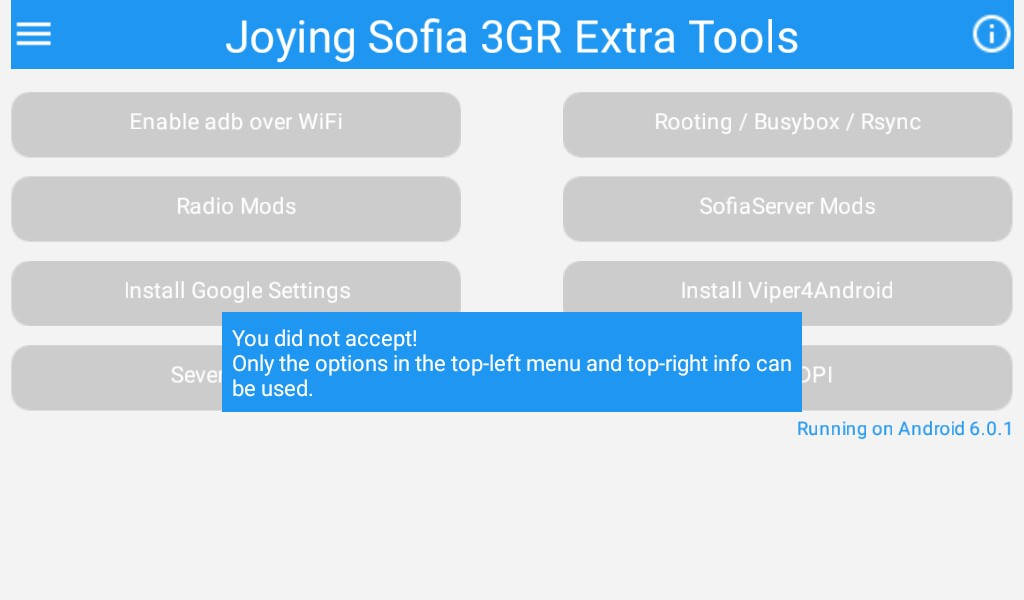
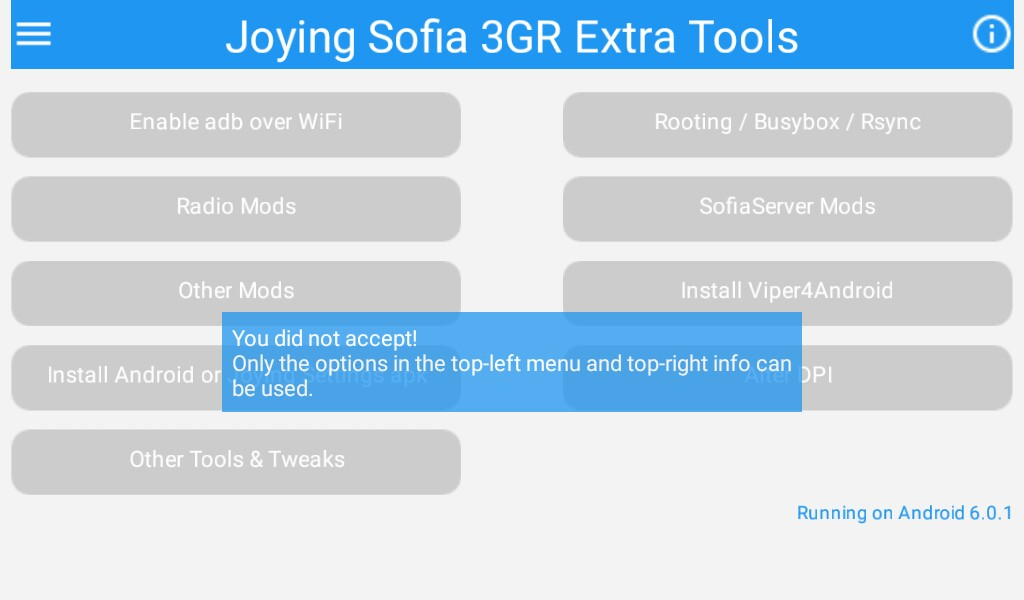
Add version 1.1 stuff

Changed region(s): [[0.0, 0.45, 0.7812, 0.84], [0.7812, 0.69, 1.0, 0.75], [0.7812, 0.84, 1.0, 0.87]]

diff --git a/manual.html b/manual.html
@@ -84,6 +84,7 @@
     <H2>The options from the main screen.</H2>
     <p>Again: If you do accept you will see:<br><a href="images/mainscreen.jpg"><img src="images/thumb-mainscreen.jpg"></a></p>
     <p>Note that some options are buttons and others are "list pickers" (drop-down options).</p>
+    <p>Note also that the buttons/listpickers that allow you to install mods, also contain the original Joying apk. In case it doesn't work for you, you can always install/restore the Joying original.</p>
     <ul>
     <li><strong>Enable adb over WiFi</strong> or <strong>Disable adb over WiFi</strong>: Depending on the current setting of the unit.<br>adb over WiFi is very handy, as you can access your unit from a distance. At the same time it is a security risk. When enabled, everyone able to "join" your WiFi network can within a minute access your unit on root level without even having to specify a password.<br> A good measure is always a strong password on your WiFi network (or your hot spot). This makes it off course much harder to hack. But if you don't need it, switch it off.</li>
     <li><strong>Rooting / Busybox/ Rsync</strong></li>
@@ -93,16 +94,19 @@
         <li><strong>Update busybox:</strong> The busybox version installed on the Joying units is old and buggy. This will install a better one. It is strongly advised to install thisversion and it is a requirement for Viper4Android!</li>
         <li><strong>Install rsync:</strong> rsync can be used for all kind of things. See for yourself.</li>
     </ul>
-    <li><strong>Radio Mods</strong>: This listpicker gives a couple of options to install different colored Radios aps.</li>
-    <li><strong>SofiaServer Mods</strong><br><a href="images/sofiaserver.jpg"><img src="images/thumb-sofiaserver.jpg"></a></li>
+    <li><strong>Radio Mods</strong><br><i>Android 6.0.1 example screen</i><br><a href="images/RadioMod601.jpg"><img src="images/thumb-RadioMod601.jpg"></a><br>This Radio Mods listpicker gives a couple of options to install different colored Radios apps.<br><br>
+    </li>
+    <li><strong>SofiaServer Mods</strong><br><i>Android 6.0.1 example screen</i><br><a href="images/sofiaserver.jpg"><img src="images/thumb-sofiaserver.jpg"></a></li>
     <ul>
         <li>NoKill: When the unit goes into sleep mode, all apps are killed apart from a few "designated" apps. This version makes sure that not one single app is killed when going into sleep mode.</li>
         <li>NoKill SRC hardcoded->GoogleVoice: This one has the NoKill feature. Additionally the SRC button of your steering wheel keys is hardcoded to start Google Voice (when installed) on your unit. Google voice can then be used to start a phone call, the radio, music player, navigation, etc. with a voice command.</li>
         <li>NoKill + Steering wheel mods: This one has the NoKill feature and (almost) complete functionality to assign commands or apks to your steering wheel keys and/or unit hardware keys. <strong>Note</strong>: It might require that you modify the default launcher.sh for your specific purpose.</li>
         <li>USBDAC only: This version enables the audio output to be improved via a USB DAC (one that is supported by the unit).</li>
         <li>USBDAC-NoKill: Like the USBDAC but also with the NoKill feature.</li>
-	    <li>Launcher.sh: If you install the Custom Key Mods (aka Steering wheel mods) version, you need to have a launcher.sh. The default launcher.sh is installed, but probably you need something slightly different. That means that you need to modify it. After modifying you need to place it in the root of the internal memory of your unit. Internal memory is also known as as /sdcard. Then the apk can find it and install it in the right location.</li>
+	    <li>Launcher.sh: If you install the Custom Key Mods (aka Steering wheel mods) version, you need to have a launcher.sh. The default launcher.sh is installed, but probably you need something slightly different. That means that you need to modify it. After modifying you need to place it in the root of the internal memory of your unit. Internal memory is also known as as /sdcard. Then the apk can find it and install it in the right location.<br><br></li>
     </ul>
+    <li><strong>Other Mods</strong><br><i>Android 6.0.1 example screen</i><br><a href="images/OtherMods601.jpg"><img src="images/thumb-OtherMods601.jpg"></a><br>This Other Mods listpicker gives a couple of options to install different colored Mods for the Bluetooth app, Music Player and Video Player.<br><br>
+    </li>
     <li><strong>Install Android or Joying Settings apk</strong>: Joying has its own Settings.apk. It has a few specific Joying options, but it also has some standard options removed like Bluetooth Settings, mount/unmount options for SDcards and the like. The Joying Settings.apk and the Android Settings.apk have identical package names being "com.android.settings". You can't install 2 of the same packages (= same package names, not necessarily same apk name). This option enables you to install one or the other and switch back and forth (with reboot in between).</li>
     <li><strong>Install Viper4Android</strong>: Viper4Android is the leading audio enhancement tool. It will improve your sound quality but don't expect miracles as the used DAC in your Joying is not of high quality (see also the SofiaServer USBDAC version).</li>
     <li><strong>Other Tools & Tweaks:</strong>

diff --git a/credits.html b/credits.html
@@ -47,7 +47,19 @@ Many people have contributed by providing patches to existing apks or completely
             <li>modded Bluetooth apk: enables coupling to all BT devices => <a href="https://forum.xda-developers.com/member.php?u=1157125" class="bdtext">treel</a> (XDA)</li>
         </ul>
     </li> -->
-    <li>Modded Radio apps: other colors and layout => <a href="https://forum.xda-developers.com/member.php?u=2550900" class="bdtext">surfer63</a> (XDA) a.k.a. <a href="http://forum.carjoying.com/user-928.html" class="bdtext">hvdwolf</a> (carjoying)</li>
+    <li>Modded Radio apps: other colors and layout: 
+        <ul>
+            <li>Blue-White => <a href="https://forum.xda-developers.com/member.php?u=2550900" class="bdtext">surfer63</a> (XDA) a.k.a. <a href="http://forum.carjoying.com/user-928.html" class="bdtext">hvdwolf</a> (carjoying)</li>
+            <li>Red Sanangel mod => <a href="https://forum.xda-developers.com/member.php?u=5944015" class="bdtext">sanangel</a></li>
+            <li>DarkBlue-Red Wilk7 mod => <a href="https://forum.xda-developers.com/member.php?u=8145104" class="bdtext">wilk7</a></li>
+            <li>Thodai mod => <a href="https://forum.xda-developers.com/member.php?u=7789261" class="bdtext">thodai</a></li>
+        </ul>
+    </li>
+    <li>Modded apps: other colors and layout: 
+        <ul>
+            <li>Wilk7 made a Bluetooth, Music Player and Video Player mod in the same theme/style as his Radio Mod => <a href="https://forum.xda-developers.com/member.php?u=8145104" class="bdtext">wilk7</a></li>
+        </ul>
+    </li>
 <!--    <li>Extra voice data files for Google app; only relevant for units set to English (en-US) => <a href="https://forum.xda-developers.com/member.php?u=6595077" class="bdtext">dpredster</a> (XDA)</li> -->
     <li>Viper4Android: handy install worked out by <a href="https://forum.xda-developers.com/member.php?u=503463"  class="bdtext">AssassinsLament</a> (XDA)</li>
 </ul>

diff --git a/RadioMods-examples.html b/RadioMods-examples.html
@@ -29,6 +29,22 @@
             <p class="menu"><a href="https://hvdwolf.github.io/Joying-RootAssistant/">Home</a> &nbsp;&nbsp;&nbsp; <a href="https://github.com/hvdwolf/Joying-RootAssistant/releases">Downloads</a> &nbsp;&nbsp;&nbsp;  <a href="manual.html">Manual</a> &nbsp;&nbsp;&nbsp;  <a href="credits.html">Credits</a> &nbsp;&nbsp;&nbsp;  <a href="https://github.com/hvdwolf/Joying-RootAssistant/">Source code</a></p>
             
             <H2>Some Radio Mod examples for Android 5.1.1 and 6.0.1</H2>
+           <a name="601"></a><H2>Android 6.0.1</H2>
+            <p><strong>Blue-White</strong><br>
+                <img src="images/Radio-Mods/601/BLUE_WHITE.jpg">
+            </p>
+            <p><strong>Red Sanangel Mod</strong><br>
+                <img src="images/Radio-Mods/601/SanAngel.jpg">
+            </p>
+            <p><strong>DarkBlue-Red Wilk7 Mod</strong><br>
+                <img src="images/Radio-Mods/601/Wilk7.jpg">
+            </p>
+            <p><strong>Thodai Mod</strong><br>
+                <img src="images/Radio-Mods/601/Thodai.jpg">
+            </p>
+            <p><br><br></p>
+            <hr>
+
             <a name="511"></a><H2>Android 5.1.1</H2>
             <p><strong>Blue-White</strong><br>
                 <img src="images/Radio-Mods/511/BLUE_WHITE.jpg">
@@ -44,15 +60,6 @@
             </p>
             <p><strong>Red-White</strong><br>
                 <img src="images/Radio-Mods/511/RED_WHITE.jpg">
-            </p>
-            <p><br><br></p>
-            <hr>
-           <a name="601"></a><H2>Android 6.0.1</H2>
-            <p><strong>Blue-White</strong><br>
-                <img src="images/Radio-Mods/601/BLUE_WHITE.jpg">
-            </p>
-            <p><strong>Red-Blue Sanangel Mod</strong><br>
-                <img src="images/Radio-Mods/601/SanAngel.jpg">
             </p>
             
         </td>

diff --git a/Changelog.html b/Changelog.html
@@ -28,6 +28,19 @@
 
 
     <ul>
+        <li>06 July 2017, V 1.1
+            <ul>
+                <li>Add the Radio Mod of Sanangel (Credits: Sanangel)</li>
+                <li>Add the Radio mod of Wilk7 (Credits: Wilk7)</li>
+                <li>Add the Radio mod of Thodai (Credits: Thodai)</li>
+                <li>Add option (link) in Radio Mods drop-downs to Online examples/previews page.</li>
+                <li>Add another listpicker (drop-down) button "Other Mods" currently containing the Bluetooth, Music Player and Video Player from Wilk7. This one also includes an Online examples/previews page.</li>
+                <!-- <li>Option to wipe your /data partition (with warning and twice "Are you sure?")</li> -->
+                <li>Minor optimisations to underlying script.</li>
+                <li>Clean up/Remove unnecessary assets.</li>
+                <li>Correct shape of "Install Android .." from square to rounded.</li>
+            </ul>
+        </li>
         <li>01 July 2017, V 1.02
             <ul>
                 <li>Add warning upon app startup in case of no WiFi (Can't test on 2G/3G/4G dongles).</li>

diff --git a/index.html b/index.html
@@ -46,12 +46,14 @@
         <li>Install rsync</li>
         <li>Install Viper4Android</li>
         <li>Install several Sofia Server mods</li>
-	<li>Install Joying Settings.apk or Standard Android Settings.apk</li>
+	    <li>Install Joying Settings.apk or Standard Android Settings.apk</li>
         <li>Install Radio mods (<a href="RadioMods-examples.html">examples</a>)</li>
+        <li>Install other mods like Music Player, Video Player, Bluetooth (<a href="OtherMods-examples.html">examples</a>)</li>
         <li>(Continuously) measure temperatures of your unit</li>
         <li>Alter the DPI of your unit</li>
         <li>Expand the hosts file to prevent ads, banners, hijackers, etc. (see <a href="http://winhelp2002.mvps.org/hosts.htm">http://winhelp2002.mvps.org/hosts.htm</a>)</li>
-	<li>Add reboot and "Hot Reboot" options</li>
+	    <li>Add reboot and "Hot Reboot" options</li>
+        <!-- <li>Add option to wipe /data to do a "factory defaults" reset.</li> -->
         <li>some more stuff to come..</li>
     </ul>
     </p>
